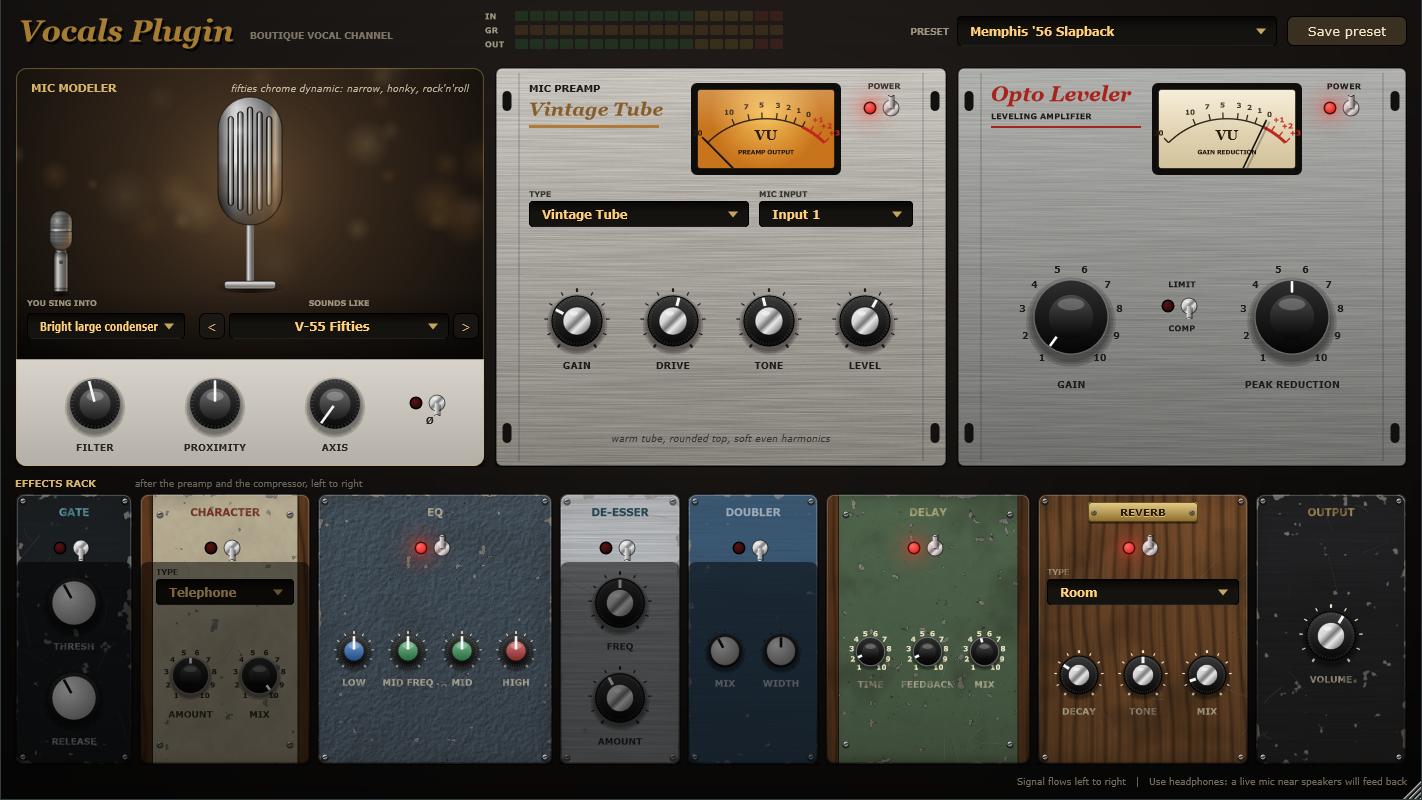
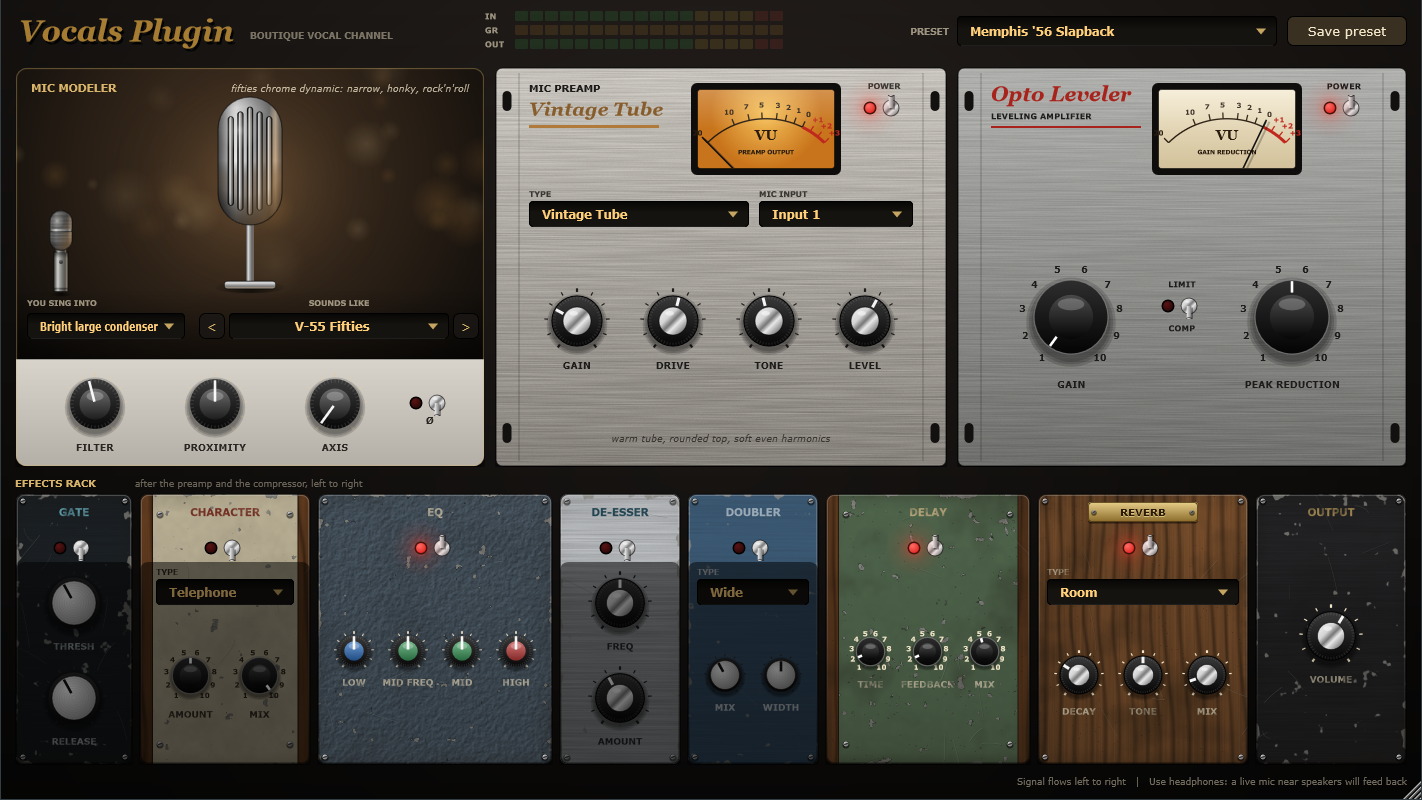
1.0.1: Walkie-Talkie and Underwater characters, Doubler types (Tight, Wide, Choir)

Changed region(s): [[0.4641, 0.7188, 0.5879, 0.9062]]

diff --git a/index.html b/index.html
@@ -168,9 +168,9 @@
       <p class="lead">Vocals Plugin is a complete vocal studio channel: a microphone modeler, seven preamps,
         an optical leveler and a rack of eight effects. Pick a preset and the difference is immediate.</p>
       <div class="cta">
-        <a class="btn primary" href="https://github.com/Ale-Studios/VocalsPlugin/releases/latest/download/VocalsPlugin-1.0.0-Setup.exe">Download for Windows</a>
+        <a class="btn primary" href="https://github.com/Ale-Studios/VocalsPlugin/releases/latest/download/VocalsPlugin-1.0.1-Setup.exe">Download for Windows</a>
         <a class="btn ghost" href="https://github.com/Ale-Studios/VocalsPlugin">GitHub page</a>
-        <span class="fine mono">v1.0.0 · installer · Windows 10/11 64-bit</span>
+        <span class="fine mono">v1.0.1 · installer · Windows 10/11 64-bit</span>
       </div>
     </div>
     <div class="monitor"><img src="media/shots/pop-pro-vocal.png" alt="Vocals Plugin: mic modeler, mic preamp, opto leveler and the effects rack" width="1422" height="800"></div>
@@ -226,10 +226,10 @@
     <div class="rack"><img src="media/shots/effects-rack.png" alt="The effects rack: gate, character, EQ, de-esser, doubler, delay, reverb, output" loading="lazy"></div>
     <div class="fx">
       <div><b>Gate</b><small>silences breaths and room noise between phrases</small></div>
-      <div><b>Character</b><small>Telephone, Old Radio, Megaphone, Lo-Fi</small></div>
+      <div><b>Character</b><small>Telephone, Old Radio, Megaphone, Lo-Fi, Walkie-Talkie, Underwater</small></div>
       <div><b>EQ</b><small>low, sweepable mid, high</small></div>
       <div><b>De-esser</b><small>tames harsh "s" and "t" sounds</small></div>
-      <div><b>Doubler</b><small>two detuned copies, left and right: sung twice</small></div>
+      <div><b>Doubler</b><small>Tight, Wide or Choir: sung twice, or by a small choir</small></div>
       <div><b>Delay</b><small>from fifties slapback to long echoes</small></div>
       <div><b>Reverb</b><small>Hall, Plate, Room</small></div>
       <div><b>Output</b><small>volume with a soft limiter that prevents clipping</small></div>
@@ -271,7 +271,7 @@
     <div class="tag">05 — Download</div>
     <h2>Set up in a few minutes.</h2>
     <div class="steps">
-      <div class="step"><h3>Install</h3><p>Run <code>VocalsPlugin-1.0.0-Setup.exe</code> from the <a href="https://github.com/Ale-Studios/VocalsPlugin/releases/latest">latest release</a> and choose the app, the VST3 plugin or both.</p></div>
+      <div class="step"><h3>Install</h3><p>Run <code>VocalsPlugin-1.0.1-Setup.exe</code> from the <a href="https://github.com/Ale-Studios/VocalsPlugin/releases/latest">latest release</a> and choose the app, the VST3 plugin or both.</p></div>
       <div class="step"><h3>Standalone</h3><p>Open <b>Vocals Plugin</b> from the Start menu, then <b>Options → Audio/MIDI Settings</b>. Choose your interface, put on headphones and untick <b>Mute audio input</b>.</p></div>
       <div class="step"><h3>Plugin</h3><p>The installer puts it in the standard VST3 folder. Rescan plugins in your DAW and put it on a vocal track.</p></div>
     </div>

diff --git a/MANUAL.md b/MANUAL.md
@@ -1,6 +1,6 @@
 # Vocals Plugin — Manual
 
-Version 1.0.0 · Windows 10 / 11 (64-bit) · VST3 plugin and standalone app
+Version 1.0.1 · Windows 10 / 11 (64-bit) · VST3 plugin and standalone app
 
 - [Getting started](#getting-started)
 - [The signal chain](#the-signal-chain)
@@ -19,7 +19,7 @@ Version 1.0.0 · Windows 10 / 11 (64-bit) · VST3 plugin and standalone app
 1. Plug your microphone into your audio interface. If it is a condenser mic, switch on the
    interface's phantom power (48V).
 2. Put on **headphones**. An open microphone near speakers will feed back.
-3. Run `VocalsPlugin-1.0.0-Setup.exe` and choose the standalone app, the VST3 plugin or both.
+3. Run `VocalsPlugin-1.0.1-Setup.exe` and choose the standalone app, the VST3 plugin or both.
    **Standalone:** open **Vocals Plugin** from the Start menu, then **Options → Audio/MIDI Settings**. Choose your
    interface as input and output and untick **Mute audio input**. The input starts muted
    for safety.
@@ -126,10 +126,10 @@ For most voices, 3 to 6 dB of reduction on the louder words is a good start.
 | Effect | Controls |
 |---|---|
 | **GATE** | THRESH (−80 to −30 dB), RELEASE. Silences breaths and room noise between phrases |
-| **CHARACTER** | TYPE: Telephone, Old Radio, Megaphone, Lo-Fi · AMOUNT · MIX |
+| **CHARACTER** | TYPE: Telephone, Old Radio, Megaphone, Lo-Fi, Walkie-Talkie (with squelch noise when you stop), Underwater (dark and wavering) · AMOUNT · MIX |
 | **EQ** | LOW · MID FREQ (200 Hz – 5 kHz) · MID (±12 dB) · HIGH |
 | **DE-ESSER** | FREQ (3 – 10 kHz) · AMOUNT. Tames harsh "s" and "t" sounds |
-| **DOUBLER** | MIX · WIDTH. Two slightly delayed, slightly detuned copies of your voice, one left and one right, so it sounds sung twice |
+| **DOUBLER** | TYPE: Tight (two close copies near the centre), Wide (one copy left, one right), Choir (four voices) · MIX · WIDTH. Slightly delayed, slightly detuned copies of your voice, so it sounds sung twice |
 | **DELAY** | TIME (60 – 900 ms) · FEEDBACK · MIX. Short times give a fifties slapback |
 | **REVERB** | TYPE: Hall, Plate, Room · DECAY · TONE · MIX |
 | **OUTPUT** | VOLUME, −24 to +12 dB. A soft limiter keeps the output from clipping |

diff --git a/README.md b/README.md
@@ -78,8 +78,8 @@ and some well used.
 
 <p align="center"><img src="media/shots/effects-rack.png" alt="Effects rack" width="100%"></p>
 
-**Gate** · **Character** (Telephone, Old Radio, Megaphone, Lo-Fi) · **EQ** · **De-esser** ·
-**Doubler** (two slightly detuned copies spread left and right) · **Delay** · **Reverb** (Hall, Plate, Room) · **Output**
+**Gate** · **Character** (Telephone, Old Radio, Megaphone, Lo-Fi, Walkie-Talkie, Underwater) · **EQ** · **De-esser** ·
+**Doubler** (Tight, Wide, Choir: detuned copies of your voice, so it sounds sung twice or by a small choir) · **Delay** · **Reverb** (Hall, Plate, Room) · **Output**
 
 ## 17 presets
 
@@ -93,7 +93,7 @@ not just a louder one. You can save your own vocal chains next to them.
 
 ## Download & install
 
-1. Download **`VocalsPlugin-1.0.0-Setup.exe`** from [Releases](../../releases/latest) and run it.
+1. Download **`VocalsPlugin-1.0.1-Setup.exe`** from [Releases](../../releases/latest) and run it.
    Choose the standalone app, the VST3 plugin or both. The plugin goes into the standard VST3 folder,
    `C:\Program Files\Common Files\VST3`, where every DAW looks.
 2. **Standalone:** open **Vocals Plugin** from the Start menu, then **Options → Audio/MIDI Settings**,
